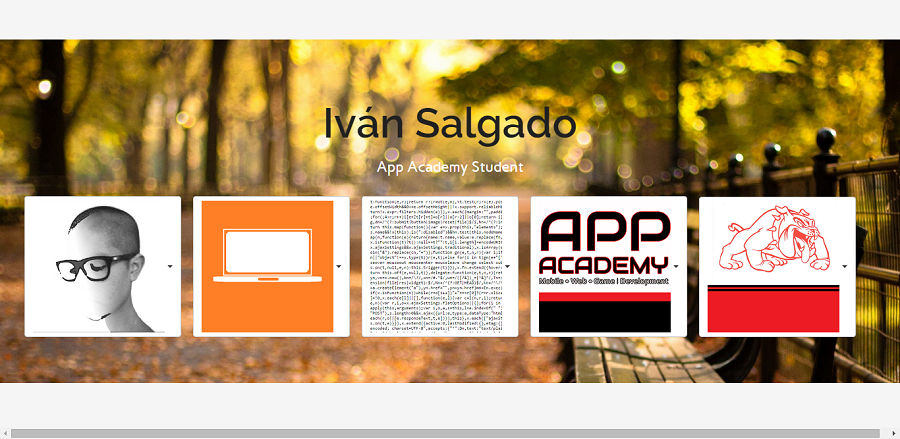
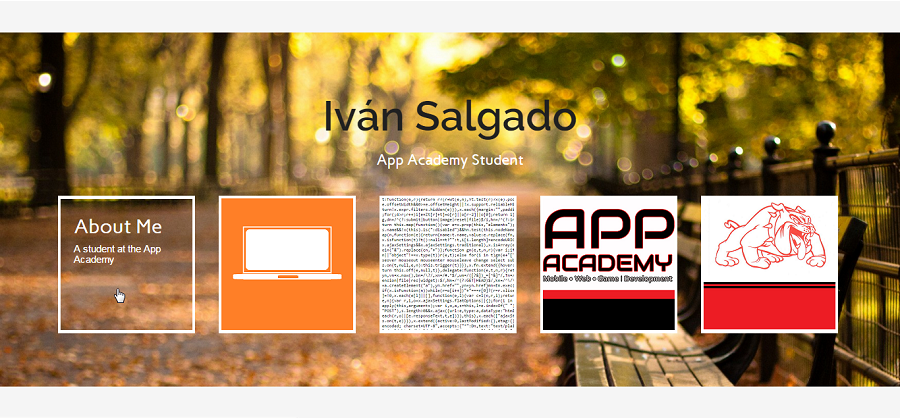
Newest version of Portfolio 2

diff --git a/public_html/projects.html b/public_html/projects.html
@@ -43,6 +43,10 @@
               <li><a href="http://localhost:8383/CBIvanS/index.html">Advertisement</a></li>
               <li class="divider"></li>
               <li><a href="index.html">Portfolio 2 (alternative)</a></li>
+              <li class="divider"></li>
+              <li><a href="http://localhost/salgadoi-blog/index.php">Blog</a></li>
+              <li class="divider"></li>
+              <li><a href="index.html">Awesomenauts</a></li>
          </ul>
         </li>
         
@@ -77,6 +81,7 @@
         </div></li>
         
         <li><a href="jquery.html" id="jquery">jQuery Page</a></li>
+        <li><a href="http://localhost/salgadoi-blog/index.php" id="jquery">Blog</a></li>
         
       </ul>
     </div>
@@ -107,8 +112,8 @@
                      briefly describes the process of making a website while the 
                      the technology page summarizes how to use HTML and CSS.</p>
                  </br>
-                 <a href="" class='btn'>Portfolio</a> 
-             <a href="" class='btn'>The App Academy</a>
+                 <a href="http://localhost:8383/salgadoi-portfolio/index.html" class='btn'>Portfolio</a> 
+             <a href="http://www.theappacademy.us/" class='btn'>The App Academy</a>
              <a href="technology.html" class='btn'>What are HTML and CSS?</a>
                   </div>
              </div>
@@ -139,7 +144,7 @@
                                     HTML, CSS, Bootstrap.</p>
              </br>
              <a href="v2.html" class='btn'>Portfolio 2</a> 
-             <a href="" class='btn'>The App Academy</a>
+             <a href="http://www.theappacademy.us/" class='btn'>The App Academy</a>
              <a href="technology.html" class='btn'>What is Bootstrap?</a></div>
              </div>
              
@@ -166,7 +171,7 @@
                                         more fragile program than HTML or CSS. Therefore,
                                         one minor flaw in the code can cause the game
                                         to malfunction.</p>
-             <a href="" class='btn'>Snake</a> 
+             <a href="http://localhost:8383/salgadoi-snake/index.html" class='btn'>Snake</a> 
              <a href="technology.html" class='btn'>What is JavaScript?</a>
                                    </div>
              </div>
@@ -193,7 +198,7 @@
                                    draw the map while melonJS assists in the actual
                                    coding of the game.
                                    </p>
-             <a href="" class='btn'>Der Mario</a> 
+             <a href="http://localhost:8383/MarioIvanS/index.html" class='btn'>Der Mario</a> 
              <a href="technology.html" class='btn'>What is Tiled?</a> 
              <a href="technology.html" class='btn'>What is melonJS?</a></div>
              </div>
@@ -217,10 +222,11 @@
                                         I even learned how to add an icon in the
                                         page's tab. Using
                                         Bootstrap, it displays what could be a 
-                                        home page for the Crate & Barrel website.
+                                        home page for the Crate & Barrel website (in the
+                                        month of December).
                                         </p>
-             <a href="" class='btn'>Advertisement</a> 
-             <a href="" class='btn'>Crate & Barrel</a>
+             <a href="http://localhost:8383/CBIvanS/index.html" class='btn'>Advertisement</a> 
+             <a href="www.crateandbarrel.com/" class='btn'>Crate & Barrel</a>
              <a href="technology.html" class='btn'>What is Bootstap?</a></div>
              </div>
              
@@ -236,15 +242,39 @@
              <div class="row">
              <div class="col-xs-2"></div>
              <div class="col-xs-8"><p>By far, Portfolio 2 (Alternative) is my 
-                                    favorite project, mostly because of the 
+                                    favorite version of the portfolio, mostly because of the 
                                     personalization of this project. It is a more
                                     professional version of the previous portfolio 
                                     and it implements another program called
                                     jQuery. jQuery is used for most of the animations
                                     on the portfolio and on the jQuery page. </p>
              <a href="index.html" class='btn'>Home</a> 
-             <a href="" class='btn'>jQuery page</a>
+             <a href="jquery.html" class='btn'>jQuery page</a>
              <a href="technology.html" class='btn'>What is jQuery?</a></div>
+             </div>
+             
+             <div class="row">
+             <div class="col-xs-2"></div>
+             <article class="col-xs-8">Blog</article>
+             </div>
+             
+             <div class="row">
+             <div class="col-xs-2"></div>
+             <div class="col-xs-8"><img src="images/p7.png"></div>
+             </div>
+             <div class="row">
+             <div class="col-xs-2"></div>
+             <div class="col-xs-8"><p>The blog project demonstrates the basic 
+                                      form of a blog or even a social media
+                                      website. The blog project implements
+                                      another technology called php, which allows
+                                      a client or user to interact with a website.
+                                      For example, a user can enter his/her email and
+                                      create a username and password to share a post
+                                      on the blog that I have created.</p>
+             <a href="index.html" class='btn'>Blog</a> 
+             <a href="jquery.html" class='btn'>php</a>
+             <a href="technology.html" class='btn'>What is php?</a></div>
              </div>
         </div>
         

diff --git a/public_html/index.html b/public_html/index.html
@@ -23,83 +23,28 @@
        <h1 id="greet">Iván Salgado</h1>
         <h2>App Academy Student</h2>
     </center>
-  <!--link to about me page (image dropdown)-->
-    <div class="row">
-    <div class="btn-group">
-  <button type="button" class="btn btn-default dropdown-toggle" data-toggle="dropdown">
-      <img src="images/pho.png"> <span class="caret"></span>
-  </button>
-    
-    <!--description and link-->
-  <ul class="dropdown-menu" role="menu">
-      <li><a href="about-me.html">
-          <h3>About Me</h3>
-          <h4>Click here to learn more about me!</h4>
-          </a></li>
-  </ul>
-</div>
-    
-      <!--link to projects page (image dropdown)-->
-    <div class="btn-group">
-  <button type="button" class="btn btn-default dropdown-toggle" data-toggle="dropdown">
-      <img src="images/project.png"> <span class="caret"></span>
-  </button>
-    
-          <!--descrition and link-->
-  <ul class="dropdown-menu" role="menu">
-      <li><a href="projects.html">
-          <h3>Projects</h3>
-          <h4>Click here to view my projects!</h4>
-          </a></li>
-  </ul>
-    </div>
-      
-            <!--link to technology page (image dropdown)-->
-    <div class="btn-group">
-  <button type="button" class="btn btn-default dropdown-toggle" data-toggle="dropdown">
-      <img src="images/coding.png"> <span class="caret"></span>
-  </button>
-    
-          <!--description and link-->
-  <ul class="dropdown-menu" role="menu">
-      <li><a href="technology.html">
-          <h3>Technology</h3>
-          <h4>Click here to learn about the technology I use!</h4>
-          </a></li>
-  </ul>
-</div>
-      
-            <!--link to App Academy website (image dropdown)-->
-               <div class="btn-group">
-  <button type="button" class="btn btn-default dropdown-toggle" data-toggle="dropdown">
-      <img src="images/appacademy.png"> <span class="caret"></span>
-  </button>
-    
-          <!--description and link-->
-  <ul class="dropdown-menu" role="menu">
-      <li><a href="http://www.theappacademy.us/">
-          <h3>App Academy</h3>
-          <h4>Click here to visit the App Academy web site!</h4>
-          </a></li>
-  </ul>
-</div>
 
-            <!--link to PHS website (image dropdown)-->
-  <div class="btn-group">
-  <button type="button" class="btn btn-default dropdown-toggle" data-toggle="dropdown">
-      <img src="images/phs.png"> <span class="caret"></span>
-  </button>
+    <div class="row">
+        
+        <ul class="photo">
+            <li><h3 class="me">About Me</h3><h4 class="me">A student at the App Academy</h4></li>
+            <li><h3 class="me">Projects</h3><h4 class="me">Assignments at the App Academy</h4></li>
+            <li><h3 class="me">Technology</h3><h4 class="me">About the various programming languages used</h4></li>
+            <li><h3 class="me">App Academy</h3><h4 class="me">The program behind it all</h4></li>
+            <li><h3 class="me">Pasadena High School</h3><h4 class="me"></h4></li>
+        </ul>
+        
     
-          <!--description and link-->
-  <ul class="dropdown-menu" role="menu">
-      <li><a href="http://phs.pasadenausd.org/">
-          <h3>Pasadena High <br> School</h3>
-          <h4>Click here to visit the PHS web site!</h4>
-          </a></li>
-  </ul>
-</div>
+        <ul class="photos" id="content">
+            <li><a href="about-me.html"><img src="images/face2.png" alt="pho"/></a></li>
+            <li><a href="projects.html"><img src="images/project.png" alt="pho"/></a></li>
+            <li><a href="technology.html"><img src="images/coding.png" alt="pho"/></a></li>
+            <li><a href=""><img src="images/appacademy.png" alt="pho"/></a></li>
+            <li><a href=""><img src="images/phs.png" alt="pho"/></a></li>
+        </ul>
     
 </div>
+        </div>
 
          <script src="https://ajax.googleapis.com/ajax/libs/jquery/1.11.0/jquery.min.js"></script>
        <script src="js/bootstrap.min.js"></script>

diff --git a/public_html/about-me.html b/public_html/about-me.html
@@ -14,7 +14,7 @@
         <link rel="stylesheet" href="https://ajax.googleapis.com/ajax/lids/jqueryui/1.11.2/themes/smoothness/juery-ui.css" />
     </head>
     <body>
-                            //navbar
+                           
                 <nav class="navbar navbar-default" role="navigation" id="nav">
   <div class="container-fluid">
     <!-- link to index -->
@@ -45,6 +45,10 @@
               <li><a href="http://localhost:8383/CBIvanS/index.html">Advertisement</a></li>
               <li class="divider"></li>
               <li><a href="index.html">Portfolio 2 (alternative)</a></li>
+              <li class="divider"></li>
+              <li><a href="http://localhost/salgadoi-blog/index.php">Blog</a></li>
+              <li class="divider"></li>
+              <li><a href="index.html">Awesomenauts</a></li>
          </ul>
         </li>
         <!-- links to other pages/websites -->
@@ -81,6 +85,7 @@
         
         <!-- link to jquery page -->
         <li><a href="jquery.html" id="jquery">jQuery Page</a></li>
+        <li><a href="http://localhost/salgadoi-blog/index.php" id="jquery">Blog</a></li>
         
       </ul>
     </div>
@@ -112,13 +117,15 @@
                     <div class='col-xs-10' id='fun'>
                     <p>I'm a student at the App 
                     Academy at Pasadena High School. I am currently 
-                    learning how to create a web site. It has only been six weeks 
-                    since school started and I have already learned from so much from
+                    learning how to create a web site. Since school started (in
+                    August 2014), I have already learned from so much from
                     both examples and mistakes! I am very interested in learning about
                     the development of computer/mobile applications. Among many other
-                    careers, I have considered computer programming as something that
-                    I'd like to pursue. I believe that this class will teach me all 
-                    of the right steps to make my aspiration a reality.</p>
+                    careers, I have considered computer programming as on occupation
+                    I'd like to pursue. Surely, this portfolio can attest to my 
+                    zeal for it. I believe that the App Academy will teach me all 
+                    of the right steps to make my aspiration a reality.
+                    </p>
                     </div>
                     </div>
                         
@@ -175,6 +182,9 @@
       
         </div>
         </nav>
+                    
+        <div class="row">
+            <div class="col-xs-2"></div><div class="col-xs-8"><h3>Contact Information</h3></div><div class="col-xs-2"></div>          
               
        <script src="js/bootstrap.min.js"></script>
         <script type="text/javascript" src="scripts.js"></script>

diff --git a/public_html/css/custom-css.css b/public_html/css/custom-css.css
@@ -45,7 +45,7 @@ h4{
 }
 
 .jumbotron{
-    background: url("http://wallpaperest.com/wallpapers/new-york-sunset-central-park-autumn-city_075722.jpg");
+    background: url("http://pocketguys.com/wp-content/uploads/2014/11/New-York-City-Sunset-Awesome-Wallpaper.jpg");
     background-size: 1500px;
     background-repeat: no-repeat;
     text-decoration-color: white;
@@ -190,3 +190,35 @@ p2{
     font-size: 90px;
 }
 
+.photos li{
+    list-style-type: none;
+    float: left;
+    display: block;
+    position: relative;
+    border: 4px solid white;
+    margin: 18px;
+}
+
+.photo li{
+    list-style-type: none;
+    float: left;
+    display: block;
+    position: relative;
+    height: 208px;
+    width: 208px;
+    border: 4px solid white;
+  //  border: 4px solid white;
+    margin: 18px;
+    text-decoration-color: white;
+  //  opacity: 0;
+}
+
+#content{
+    padding-top: 290px;
+    position: absolute; 
+    top: 0px;
+}
+
+.me{
+    color: white;
+}

diff --git a/public_html/jquery.html b/public_html/jquery.html
@@ -49,6 +49,10 @@ and open the template in the editor.
               <li><a href="http://localhost:8383/CBIvanS/index.html">Advertisement</a></li>
               <li class="divider"></li>
               <li><a href="index.html">Portfolio 2 (alternative)</a></li>
+              <li class="divider"></li>
+              <li><a href="http://localhost/salgadoi-blog/index.php">Blog</a></li>
+              <li class="divider"></li>
+              <li><a href="index.html">Awesomenauts</a></li>
          </ul>
         </li>
         
@@ -83,6 +87,7 @@ and open the template in the editor.
         </div></li>
         
         <li class="active"><a href="jquery.html" id="jquery">jQuery Page</a></li>
+        <li><a href="http://localhost/salgadoi-blog/index.php" id="jquery">Blog</a></li>
         
       </ul>
     </div>

diff --git a/public_html/technology.html b/public_html/technology.html
@@ -43,6 +43,10 @@
               <li><a href="http://localhost:8383/CBIvanS/index.html">Advertisement</a></li>
               <li class="divider"></li>
               <li><a href="index.html">Portfolio 2 (alternative)</a></li>
+              <li class="divider"></li>
+              <li><a href="http://localhost/salgadoi-blog/index.php">Blog</a></li>
+              <li class="divider"></li>
+              <li><a href="index.html">Awesomenauts</a></li>
          </ul>
         </li>
         
@@ -77,6 +81,7 @@
         </div></li>
         
         <li><a href="jquery.html" id="jquery">jQuery Page</a></li>
+        <li><a href="http://localhost/salgadoi-blog/index.php" id="jquery">Blog</a></li>
         
       </ul>
     </div>

diff --git a/public_html/scripts.js b/public_html/scripts.js
@@ -17,6 +17,20 @@ $("document").ready(function(){
     $(".10").css("background-color", "#F5F5F5");
     $("#hide").css("background-color", "#FFB74D");
     
+    
+    
+    $('.photos img').css('opacity', 1);
+    $('.photos li').hover(
+            function() {
+                $(this).find('img').stop().fadeTo('slow', 0);
+            },
+            function() {
+                $(this).find('img').stop().fadeTo('slow', 1);
+            });
+    
+    
+    
+    
     $("#b").bind('click', alertButtonClick);
     
     $(".ivan").bind('mouseover', mouseOverMe).bind('mouseout', mouseOutMe);
@@ -221,6 +235,13 @@ function hideThePage(){
 function showThePage(){
     $('div').hide('fold', {}, 2500);
 }
+
+
+
+
+
+
+
 
 
   
